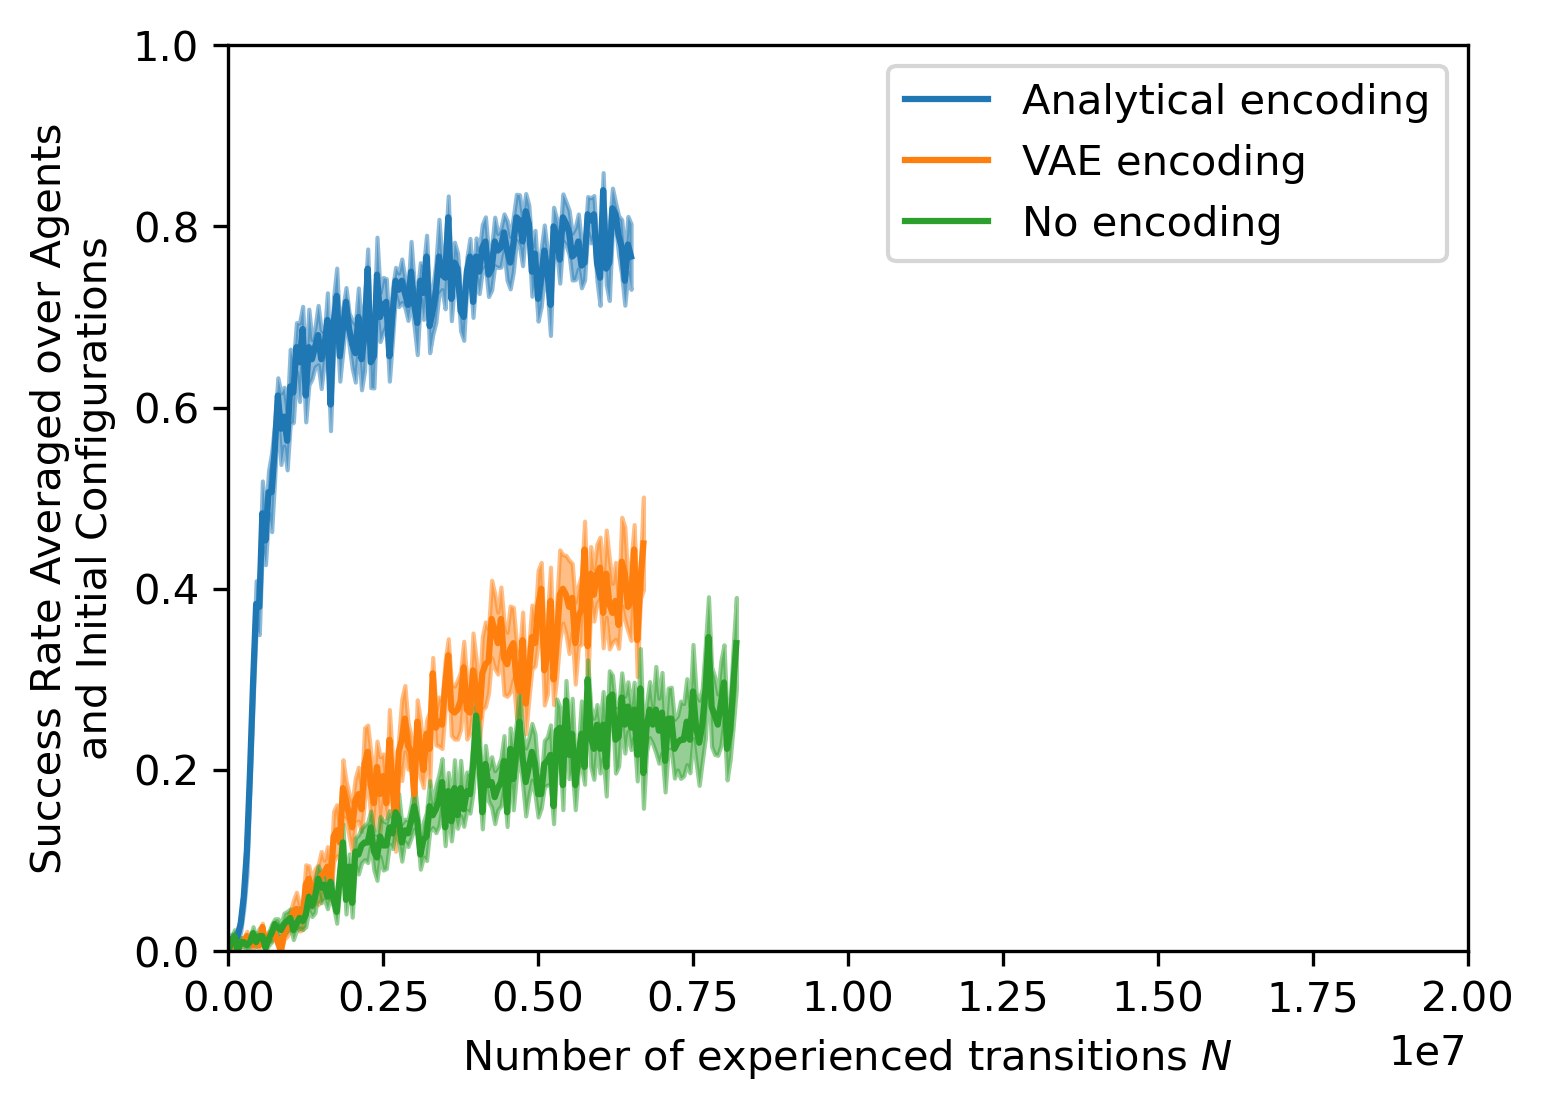
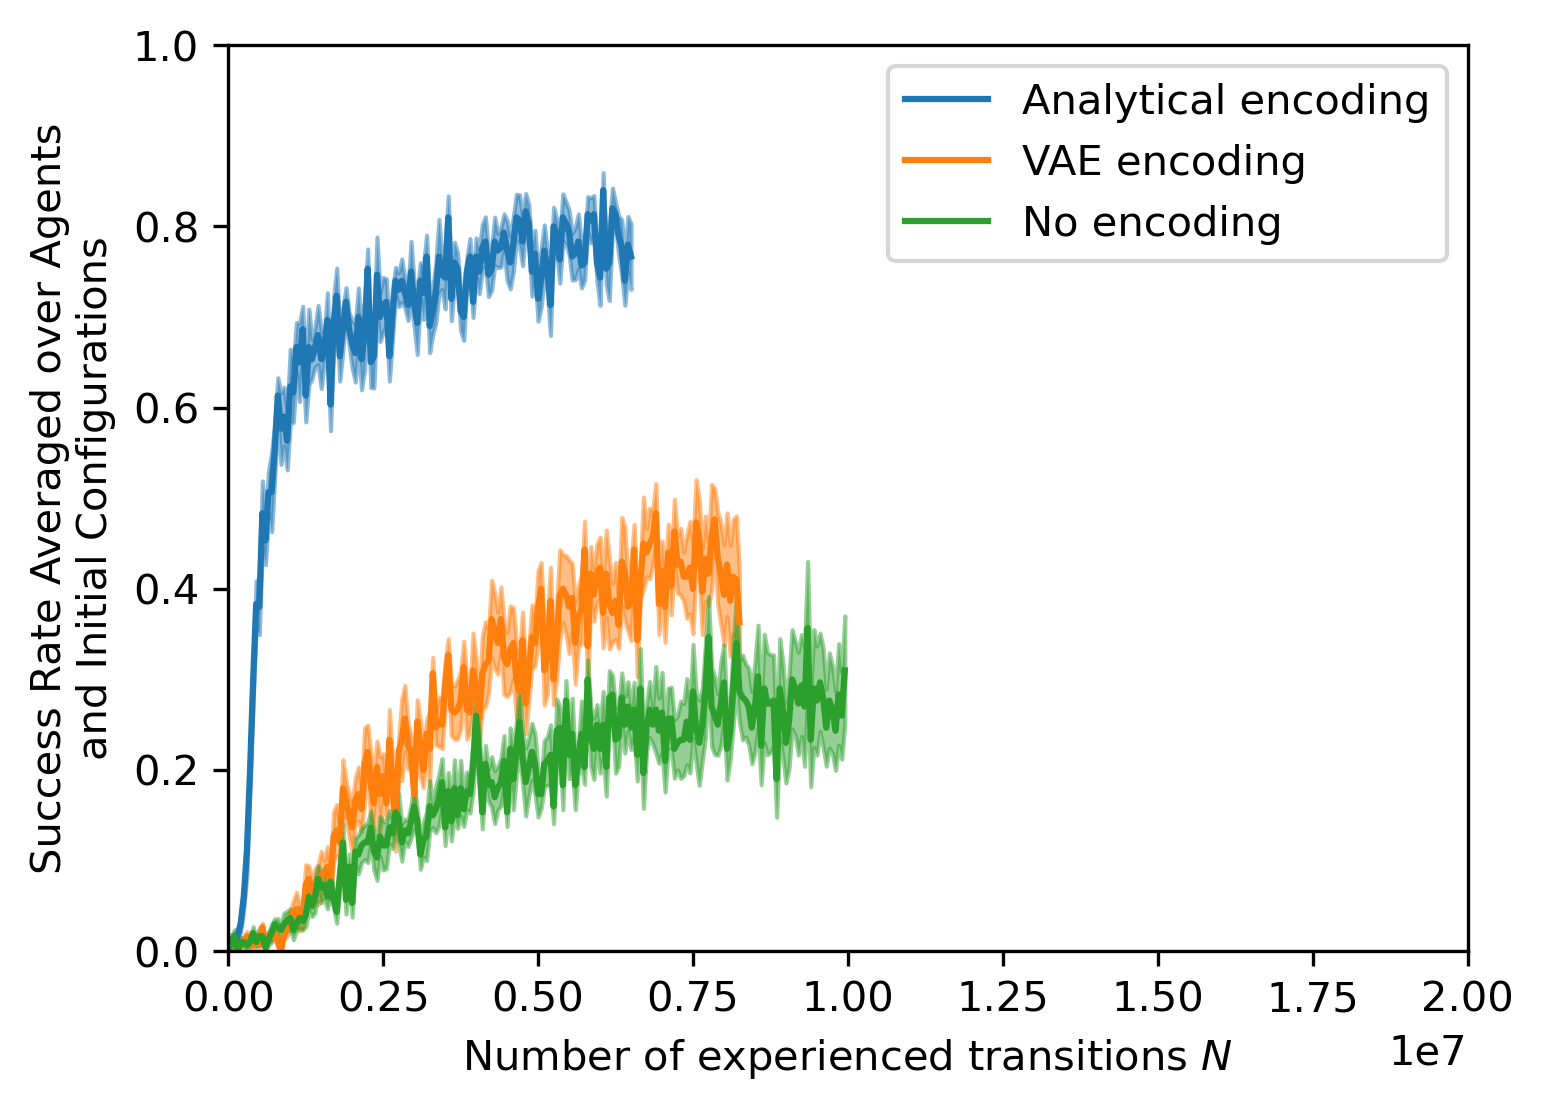
“Planned Subgoals + RL” baseline experiment / data update

Changed region(s): [[0.4044, 0.4284, 0.5599, 0.7345]]

diff --git a/README.md b/README.md
@@ -18,7 +18,7 @@ Obstacle Setup             |  Plan Execution Example 1           |  Plan Executi
 
 We analytically encode these plans into a 6D latent space, corresponding to the initial, the final, and an intermediate planned position of the box. Please also see experiment 2 for a discussion of different types of encoding.
 
-We compare against the baselines introduced in section 5.3 of the original version of the paper.
+We compare against the baselines introduced in section 5.3 of the original version of the original version of the paper, as well as against the additional baseline on combining planning and learning that we introduce in Experiment 2.
 
 ## Motivation
 Obstacle avoidance is a notoriously hard problem in robotics.
@@ -36,8 +36,8 @@ The runs are not fully finished yet; results are updated regularly.
 ![](figs/results_pushing_obstacle.png)
 
 ## Preliminary Results
-L2E performs significantly better than the pure learning HER baselines, as well as the pure planning baseline ("Plan", in blue).
-Currently, the runs are not fully finished, but initial results indicate that the performance of L2E is already comparable to the performance of the "Plan + IM" baseline.
+L2E performs significantly better than the pure learning HER baselines, the pure planning baseline ("Plan"), and the “Planned Subgoals + RL” baseline.
+Currently, the runs are not fully finished, but initial results indicate that the performance of L2E exceeds the performance of the "Plan + IM" baseline as well.
 The "Plan + IM" baseline executes the plan using an inverse model learned from data.
 
 In comparison with the pushing experiment in the original version of the paper, L2E learns slower.
@@ -49,9 +49,52 @@ In contrast, the "Plan + IM" baseline is independent of the size of the plan spa
 This experiment reveals the following two aspects:
 First, it reveals the importance of approximate plans in more complicated scenes, as illustrated by the difference between HER and L2E.
 Even using HER, standard RL is not able to solve the task.
+This even holds true if the RL agent is supported by a long-horizon planner that provides short-horizon subgoals, as illustrated by the difference between the “Planned Subgoals + RL” baseline and L2E.
+
 Second, comparing L2E to the pushing example in the original version of the paper, it highlights that for larger plan spaces, more data is needed to train the L2E agent.
 
-# Experiment 2: Plan encoding
+# Experiment 2: Additional Baseline on Combining Planning and Learning
+We added this baseline to compare against more methods that, like L2E, also combine learning and planning.
+
+Here we use the planner to create a sequence of subgoals that can be navigated by a RL agent. This approach is inspired by PRM-RL [Faust et al. 2017]; we will refer to it as “Planned Subgoals + RL”.
+
+## Description
+We use the planner to provide subgoals to the RL agent. The subgoal is selected as a box position on the plan that is 0.3 (1/10 of the table length) away from the current box position.
+Once the subgoal is reached (tolerance 0.1), the next subgoal is selected.
+
+Thus, long-term planning is provided by the planning module.
+The RL agent on the other hand is tasked with learning the dynamics of the system to reach relatively short-term goals.
+This RL agent is conditioned on subgoals, and trained using HER.
+We use the sampling strategies "Episode 5" in case of the pushing environment included in original version, and "Future 5" in case of the obstacle environment. These performed best on the respective environment when used without any planning.
+
+## Motivation
+We added this baseline as an additional method (apart from the "Plan+IM" baseline) that also combines learning and planning.
+While the "Plan+IM" baseline uses an inverse dynamics model to learn immediate actions that reach the next planned state, the “Planned Subgoals + RL” baseline allows the RL agent to learn behavior that lasts for longer than one time step.
+Still, the RL agent does not need to reason about long-term behavior like the pure HER agents have to, since this is covered by the high-level planner.
+
+## Experiment Status
+The following figures show the performance of “Planned Subgoals + RL” compared to L2E as well as to the other baselines. Results are shown in both the pushing environment included in the original version of the paper, as well as the obstacle environment that was added during the review.
+Some of the runs are not fully finished yet; results are updated regularly.
+
+![](figs/results_pushing.png) |![](figs/results_pushing_obstacle.png) 
+:-------------------------:|:-------------------------:
+Pushing environment included in original version             |  Obstacle environment added during the review
+
+## Preliminary Results
+In the pushing environment included in original version, we find that the “Planned Subgoals + RL” baseline outperforms all other baselines that we initially included, but still shows lower performance than both versions of L2E.
+
+In the obstacle environment added during the review, we find that “Planned Subgoals + RL” performs significantly worse than the L2E agents, as well as significantly worse than the “Plan + IM” baseline.
+
+## Preliminary Discussion
+In the pushing environment included in original version, using a learned policy that acts for multiple time steps in order to reach a subgoal (“Planned Subgoals + RL”) seems advantageous over using an inverse model that can only perform a single action (“Plan + IM”) to follow the plan.
+However, L2E, which directly learns to execute entire plans using reward shaping, shows better performance compared to both baselines.
+
+The results in the obstacle environment indicate that this relative advantage of “Planned Subgoals + RL” over “Plan + IM” only holds true if the policy for reaching the local subgoal can be learned effectively.
+This seems to be more challenging in the obstacle environment, potentially due to the segmentation of the state space.
+Therefore, the “Plan + IM” baseline outperforms “Planned Subgoals + RL”.
+Again, given sufficient training time, L2E performs better than all baselines.
+
+# Experiment 3: Plan encoding
 ## Description
 We compare three different ways to encode the plan for the pushing environment shown in the original version of the paper:
 
@@ -88,7 +131,7 @@ We find that
 These results show that using an encoding is beneficial, even if it has to be learned.
 At least for the present example, using an analytical encoding was however more effective.
 
-# Experiment 3: Plan density
+# Experiment 4: Plan density
 
 ## Description
 We compare training the L2E agent using planned state sequences of different density.
